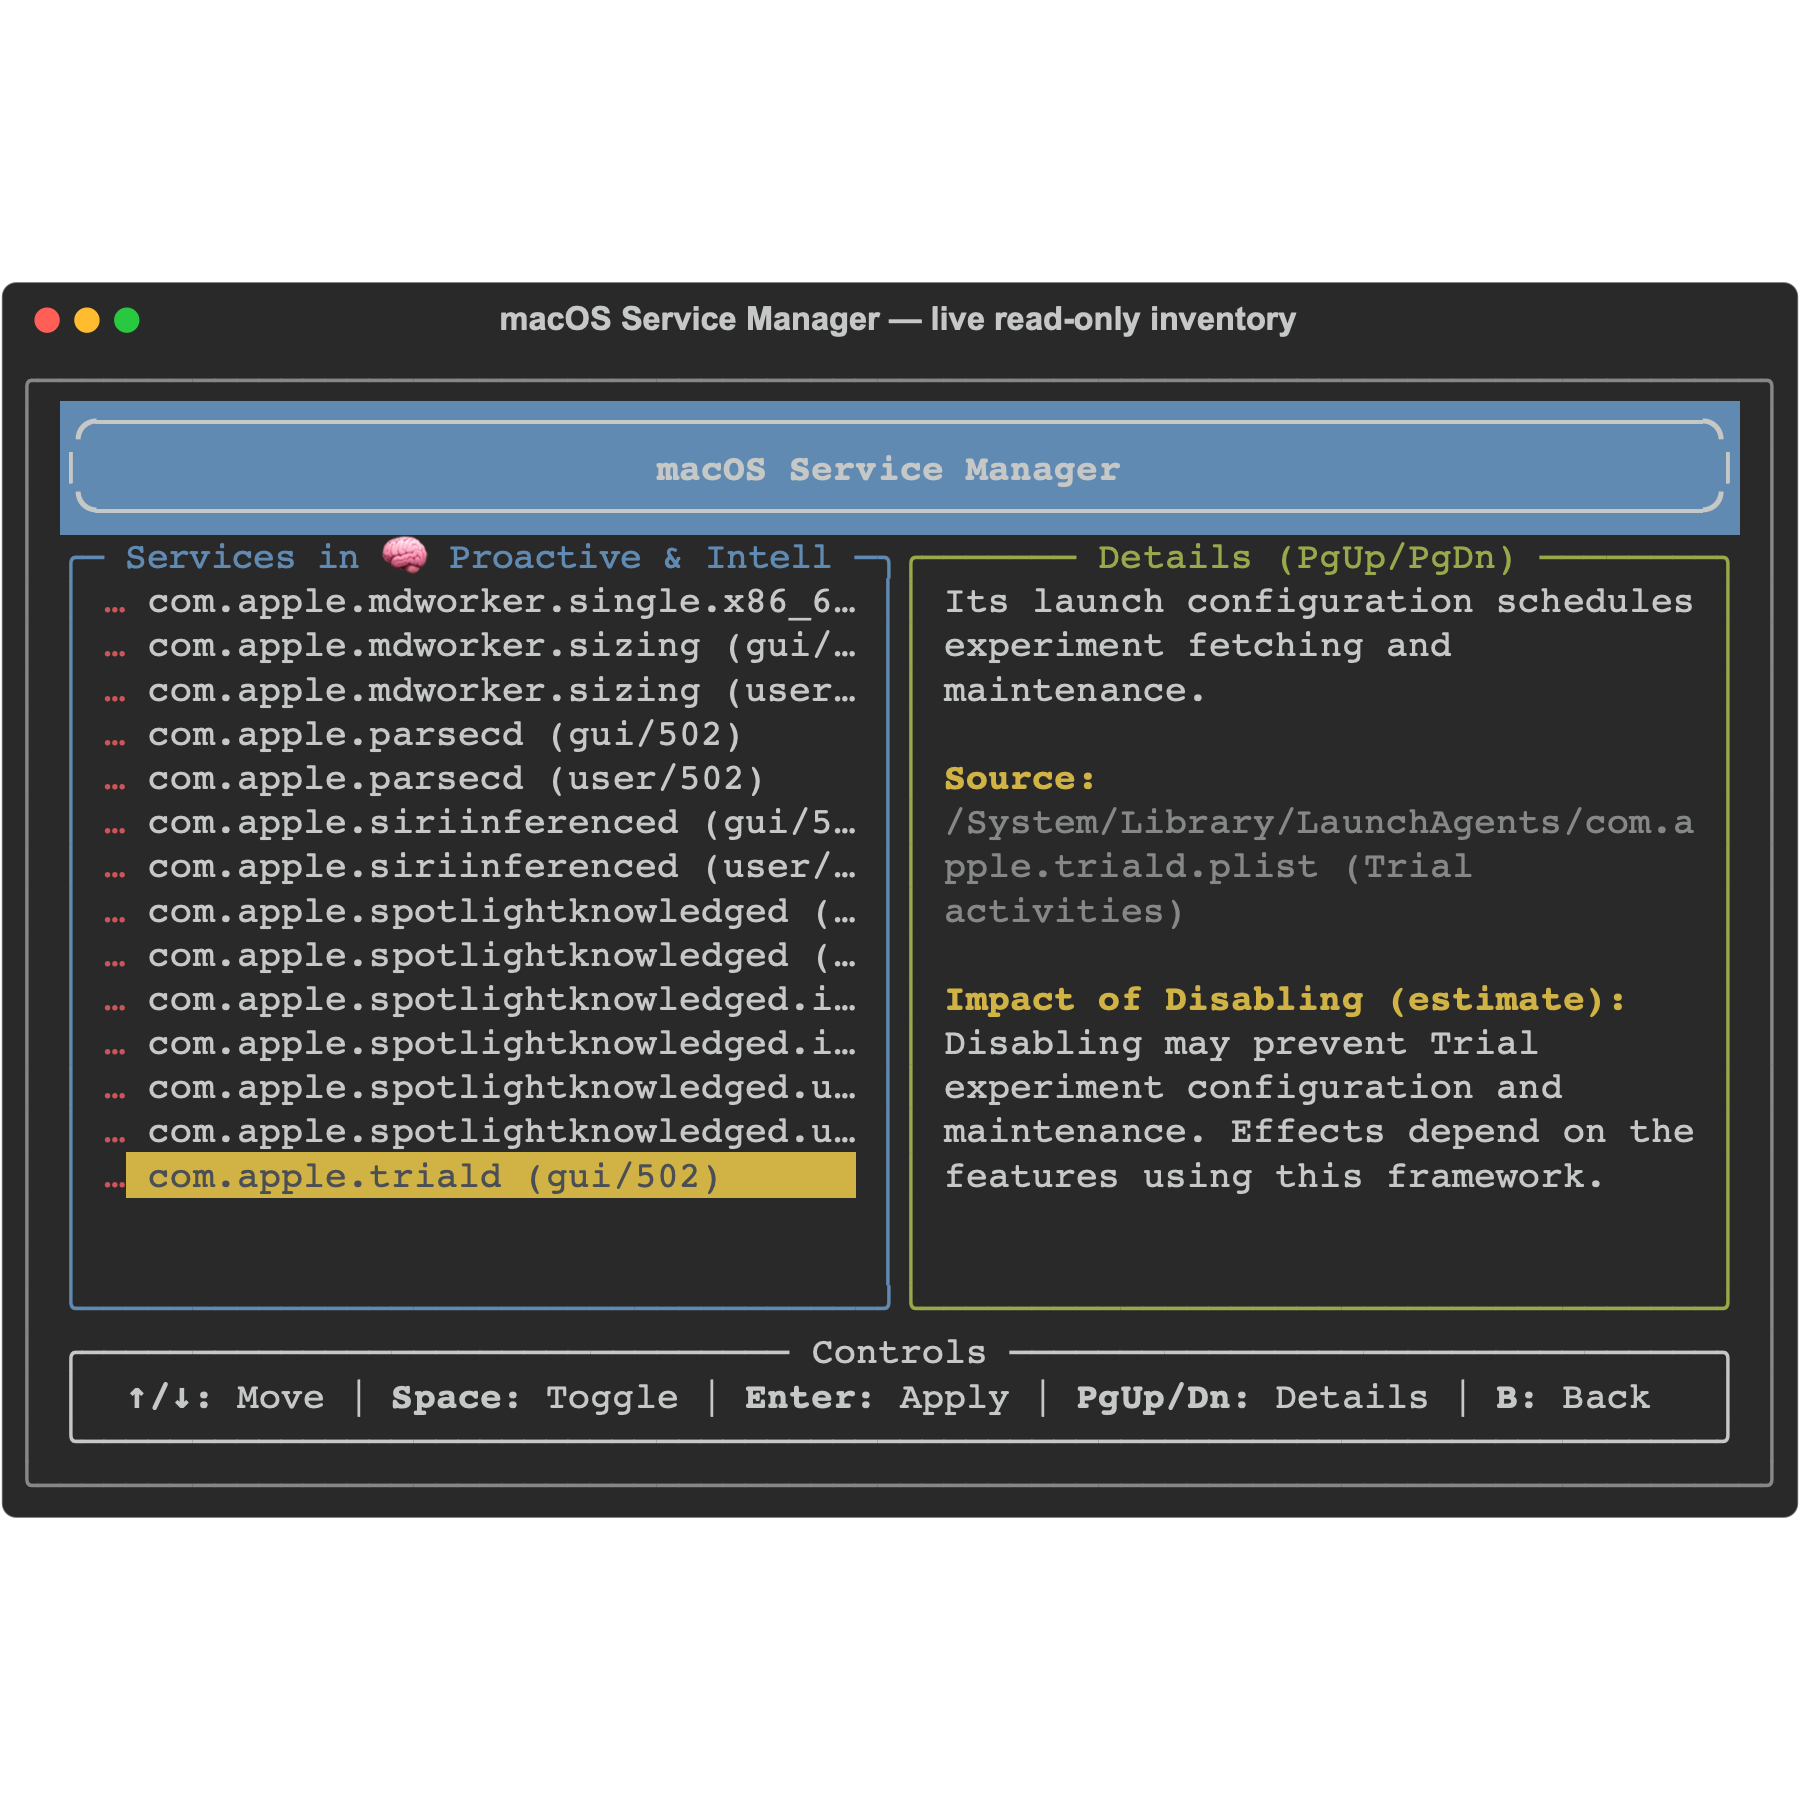
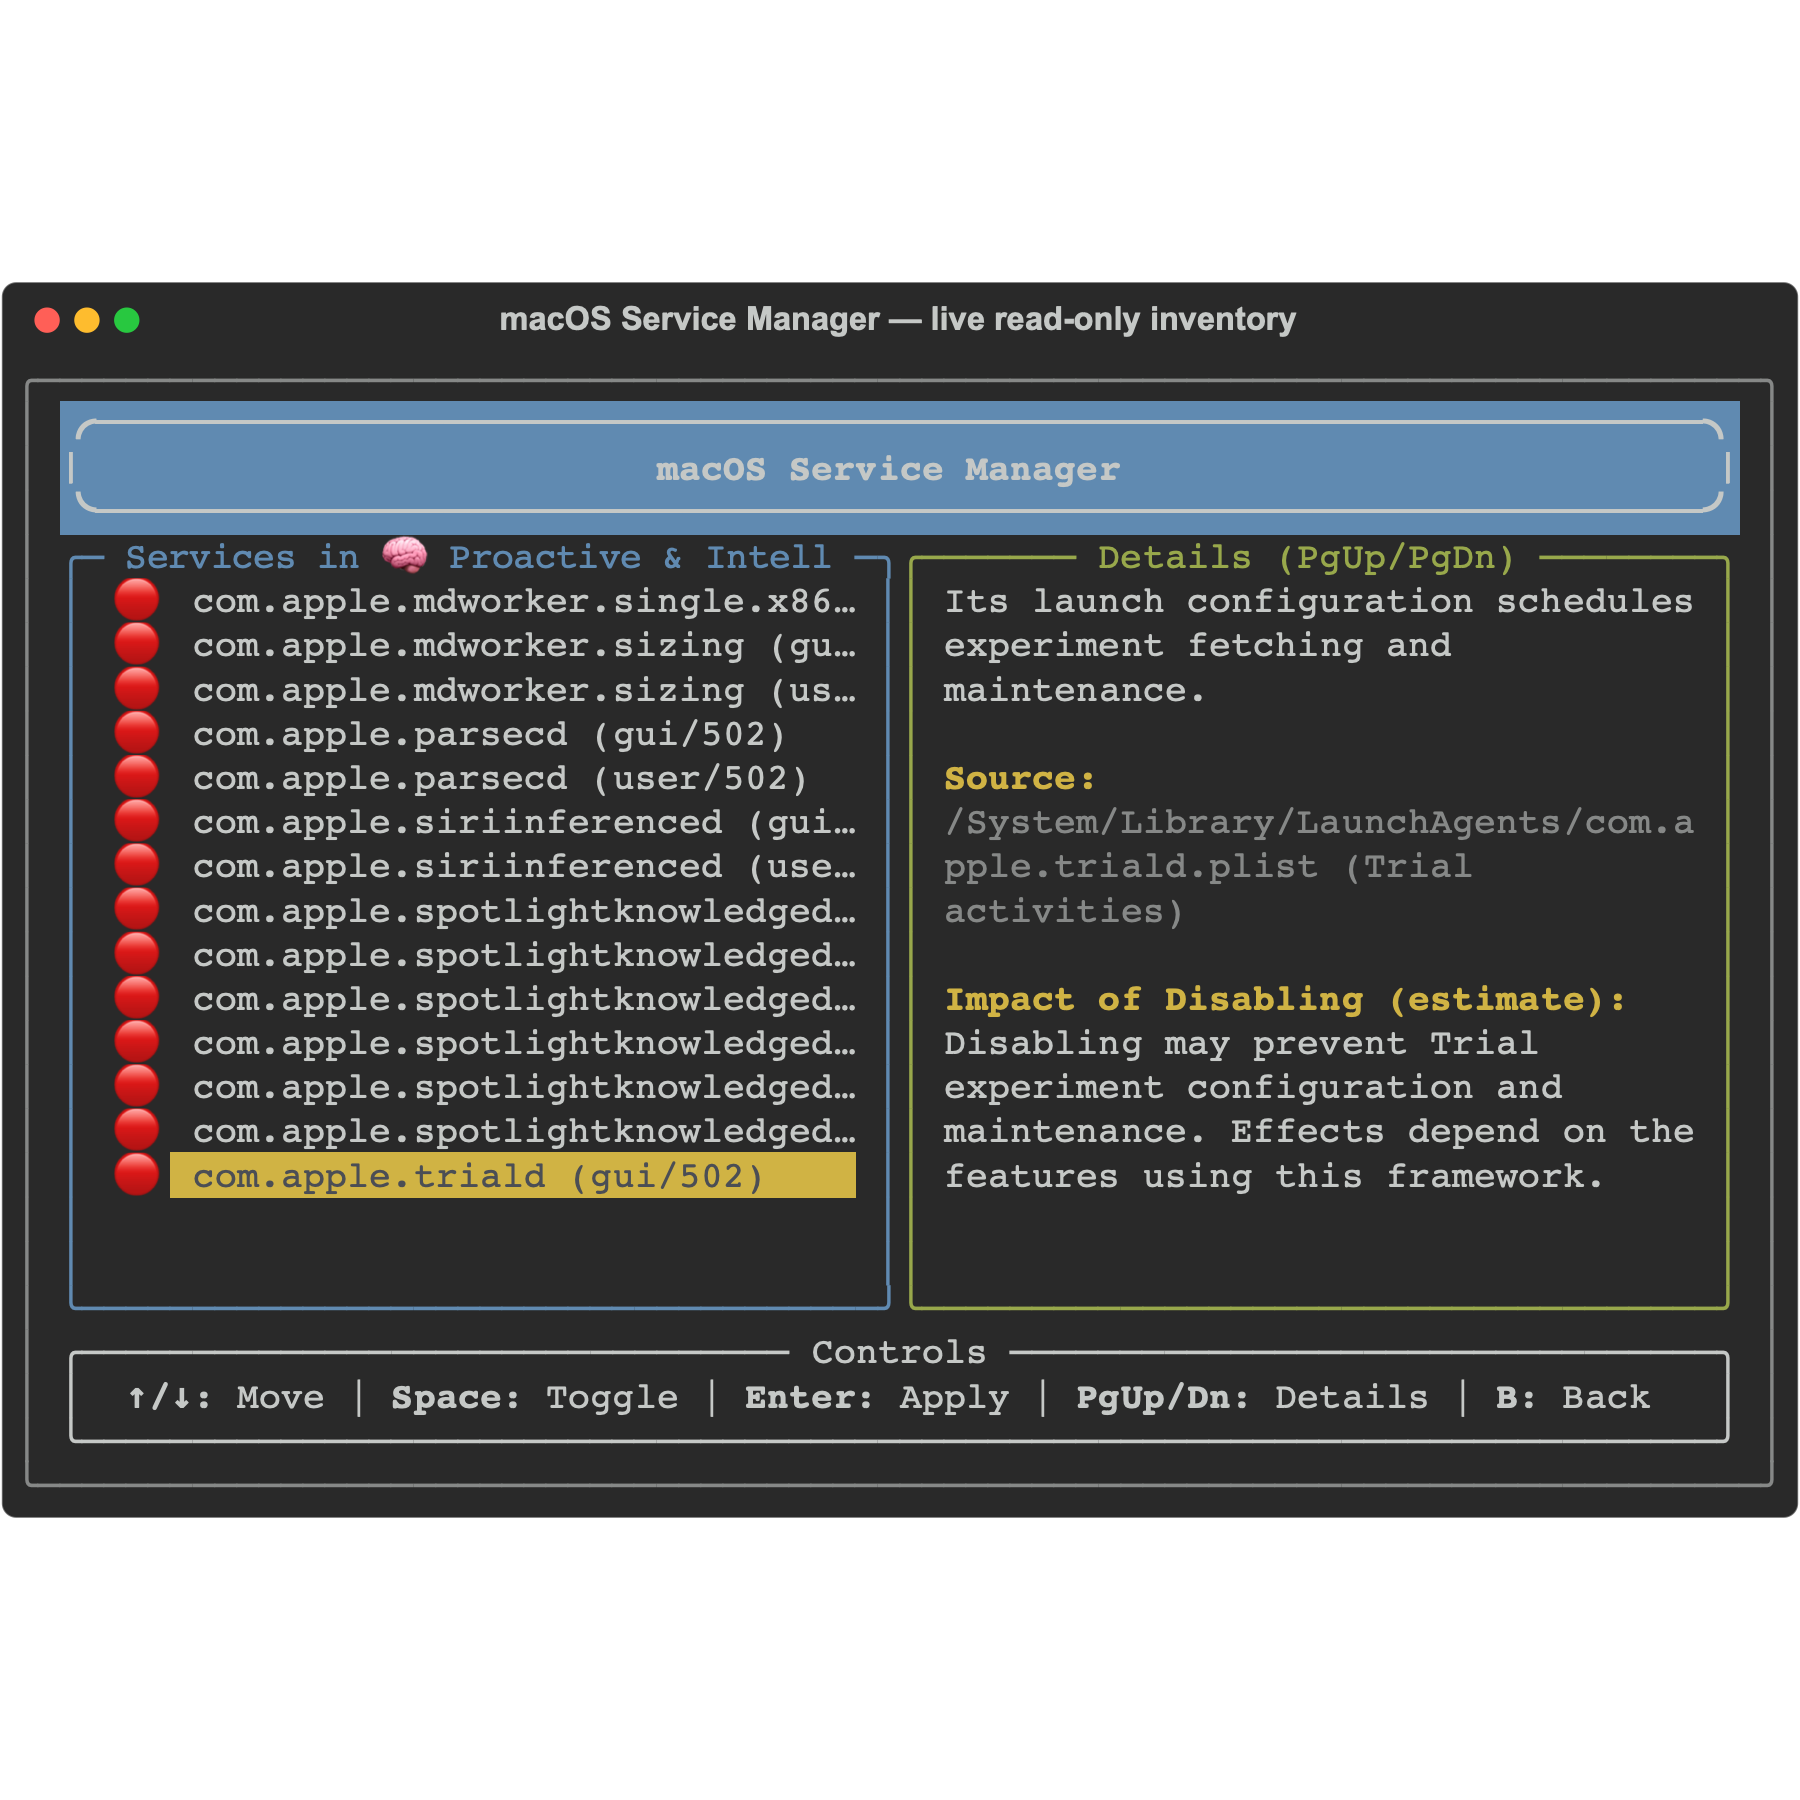
Bound label column width to preserve narrow status indicators

Changed region(s): [[0.0622, 0.3111, 0.4667, 0.6844]]

diff --git a/manage-services.tui.py b/manage-services.tui.py
@@ -5576,7 +5576,7 @@ class ServiceManagerTUI:
         category_name = self.categories[self.active_category_index]
         table = Table(show_header=False, box=None, padding=(0, 0), show_edge=False)
         table.add_column(width=3, min_width=3, max_width=3, no_wrap=True)  # Preserve status icon
-        table.add_column(no_wrap=True, overflow="ellipsis")  # Full label remains in Details
+        table.add_column(no_wrap=True, overflow="ellipsis", max_width=max(1, (self.console.width - 4) // 2 - 7))  # Full label remains in Details
 
         available_height = self.viewport_height
         start = self.service_scroll_offset
